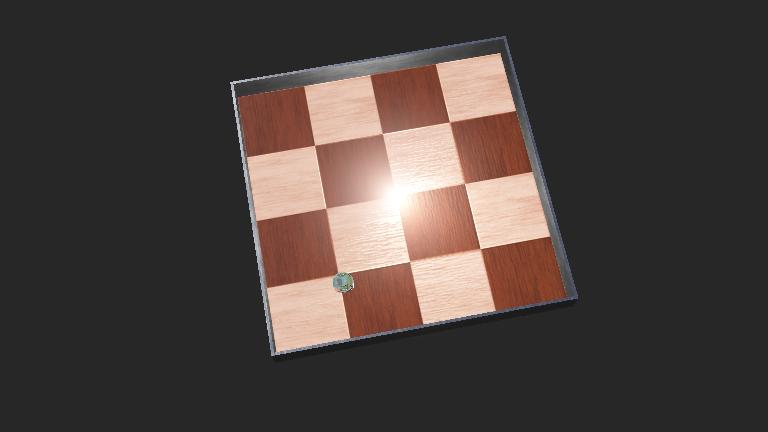
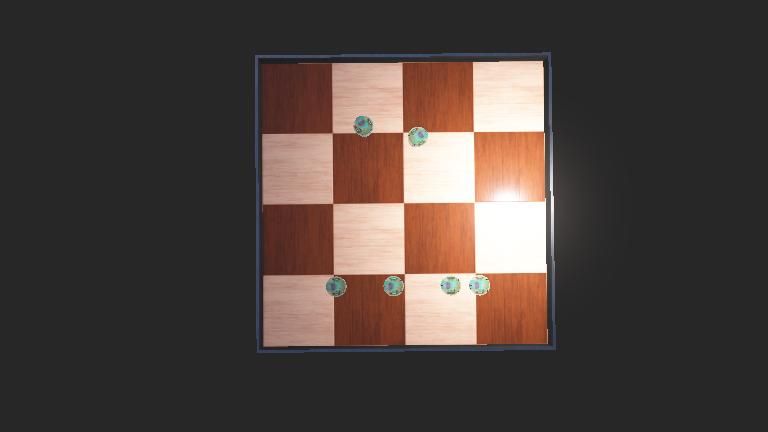
multi robot ligth follow

Changed region(s): [[0.2812, 0.0903, 0.75, 0.8426]]

diff --git a/learning_webots/controllers/follow_light/follow_light.py b/learning_webots/controllers/follow_light/follow_light.py
@@ -1,4 +1,5 @@
 from controller import Robot, Motor, DistanceSensor, device, distance_sensor
+import numpy as np
 
 DISTANCE_SENSORS_NUMBER  = 8
 LIGHT_SENSORS_NUMBER = 8
@@ -39,17 +40,26 @@ while robot.step(timestep) != -1:
     # try to follow the light source
     left_speed = MAX_SPEED
     right_speed = MAX_SPEED
+    print(f"Light sensor values: {ls_values}")
     reference_light_value = (ls_values[0] + ls_values[7]) / 2
+    right_light_value = np.mean((ls_values[0], ls_values[1], ls_values[2], ls_values[3]))
+    left_light_value = np.mean((ls_values[4], ls_values[5], ls_values[6], ls_values[7]))
     THRESHOLD = 0.1 * reference_light_value
-    if ls_values[0] - reference_light_value > THRESHOLD:
+    if reference_light_value - left_light_value> THRESHOLD:
+        # turn left
         left_speed = -MAX_SPEED
         right_speed = MAX_SPEED
-    elif ls_values[7] - reference_light_value > THRESHOLD:
+        print(f"Turning left: left_light_value={left_light_value}, reference_light_value={reference_light_value}")
+    elif reference_light_value - right_light_value > THRESHOLD:
+        # turn right
         left_speed = MAX_SPEED
-        right_speed = -MAX_SPEED
+        right_speed = MAX_SPEED
+        print(f"Turning right: right_light_value={right_light_value}, reference_light_value={reference_light_value}")
+    else:
+        print(f"Going straight: left_light_value={left_light_value}, right_light_value={right_light_value}, reference_light_value={reference_light_value}")
     
     # if any sensor detects an obstacle, EMERGENCY STOP
-    if any(value > 100 for value in ps_values):
+    if any(value > 100 for value in ps_values[-1:1]):
         left_speed = 0
         right_speed = 0
     